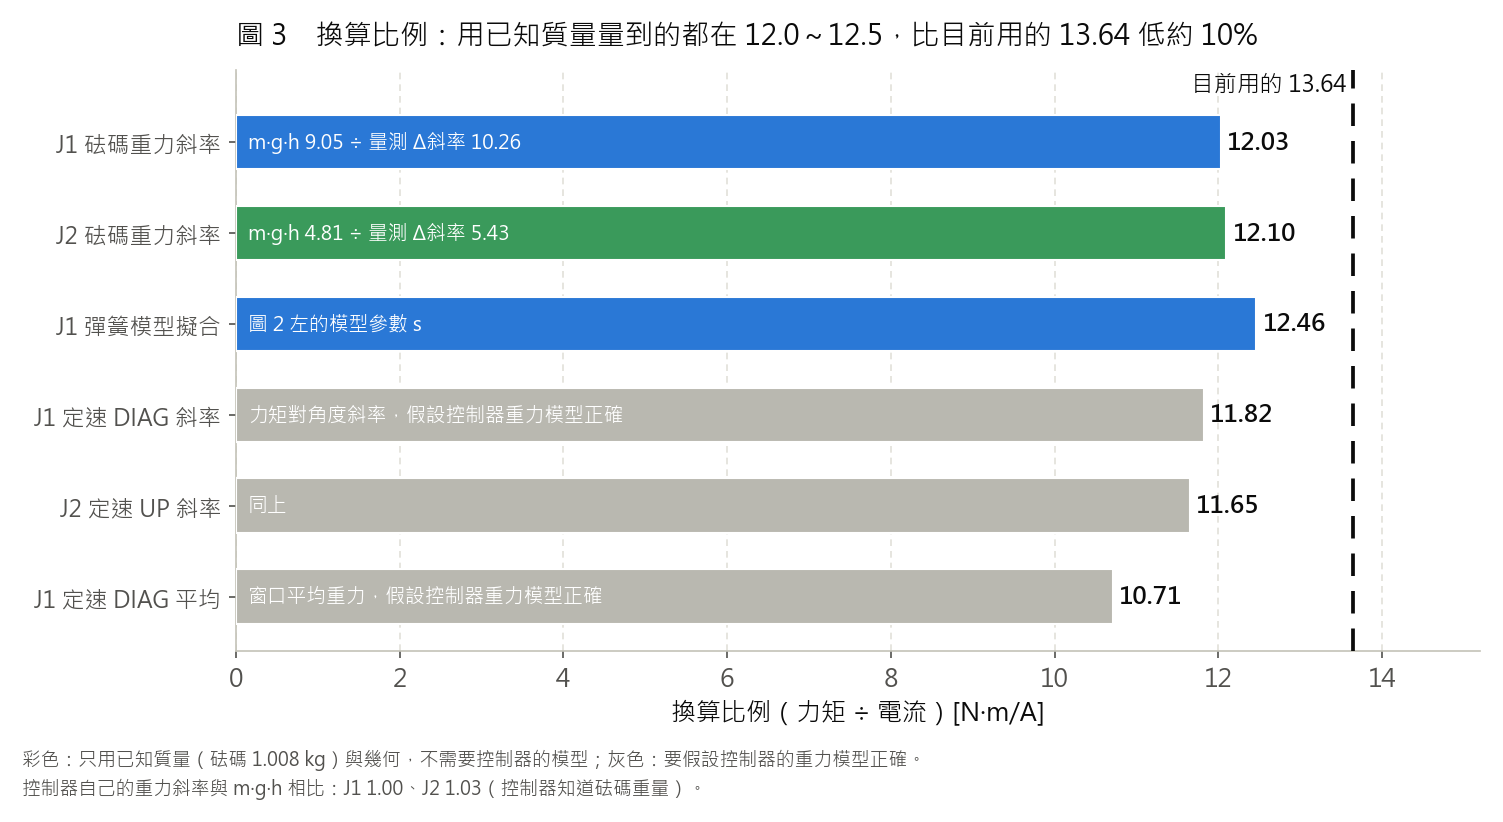
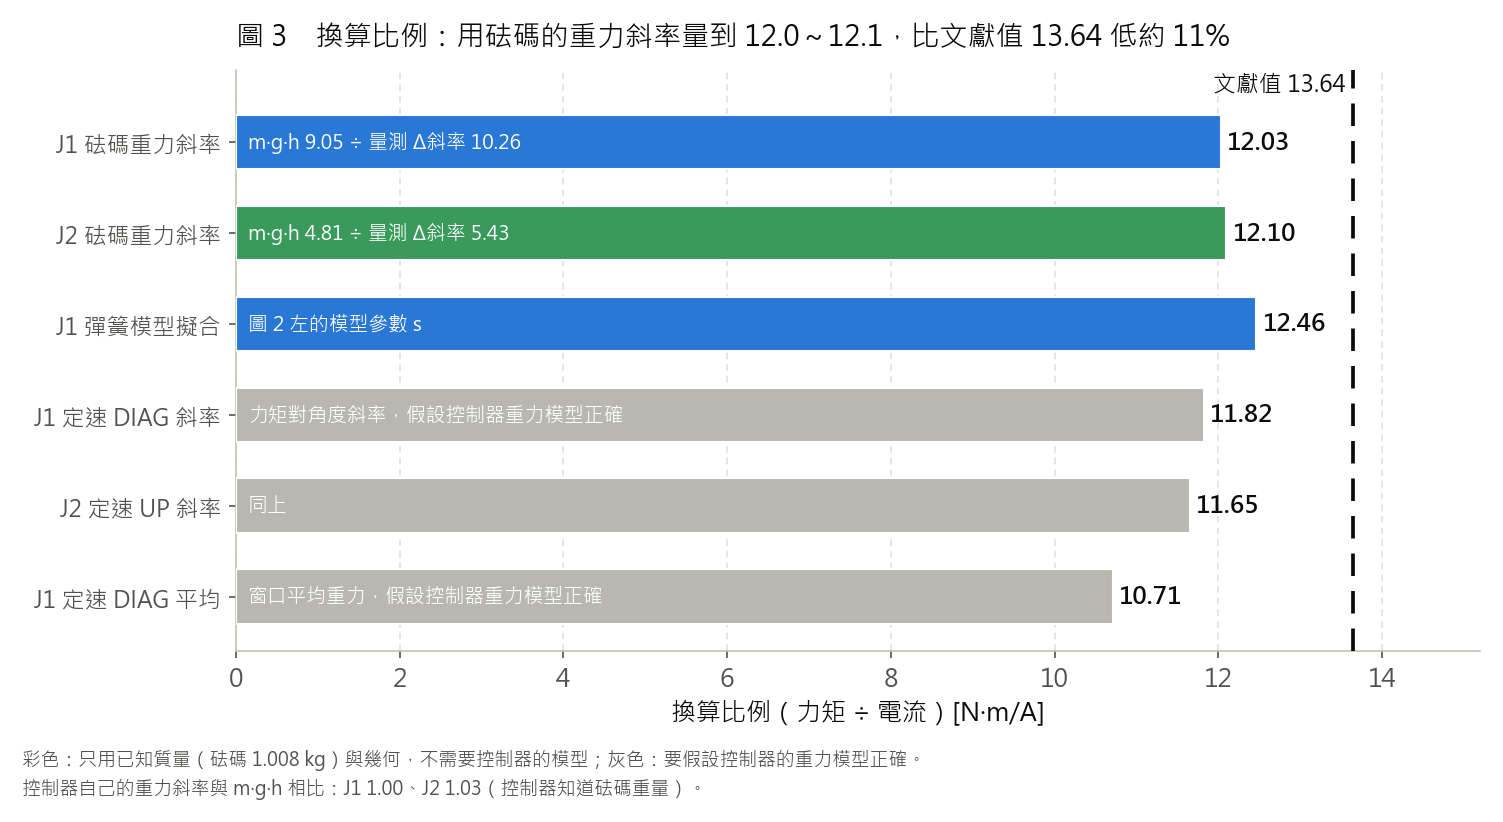
11/18 report fig 3: call 13.64 the literature value, 11% lower; mention the 10.71 window-mean estimate

Changed region(s): [[0.3061, 0.0304, 0.857, 0.0608], [0.153, 0.0304, 0.2754, 0.0608], [0.7957, 0.0912, 0.8876, 0.1217]]

diff --git a/analysis/1112/report_figs_1118.py b/analysis/1112/report_figs_1118.py
@@ -1,7 +1,7 @@
 """11/18 報告的圖（11/12 上機，手臂朝上 UP）。
 圖 1：J1 速度調變，J 對頻率：11/5 與 11/12 重複（1.30 kg），加砝碼（2.31 kg）。
 圖 2：砝碼造成的 ΔJ 對頻率：J1（加單一彈簧模型）、J2，和控制器 ΔJ_model 比。
-圖 3：換算比例（N·m/A）的各種估計，和目前用的 13.64 比。
+圖 3：換算比例（N·m/A）的各種估計，和文獻值 13.64（減速比 101 × 轉矩常數 0.135）比。
 圖 4：敲擊測試的餘振頻譜（11/12 已畫好的 w1112_tap_spectrum.png，複製改名）。
 圖 5：J2 定速（B、Tc）與 J2 速度調變各條件的 J。
 只讀 11/12 分析已存的結果（analysis_1112/*.json，由同資料夾的 j1_1112*.py、j2_*.py、tap_*.py 產生），不連網路。
@@ -24,7 +24,7 @@ FIGS = os.path.join(OUT, "figs"); os.makedirs(FIGS, exist_ok=True)
 DOCS = os.path.join(HERE, "..", "..", "docs", "report_1118"); os.makedirs(DOCS, exist_ok=True)
 INK, INK2, MUTED, GRAY = "#0b0b0b", "#52514e", "#8d8b83", "#b9b8b0"
 ORANGE, BLUE, GREEN = "#d9822b", "#2a78d6", "#3a9a5b"
-KT = 13.64                                             # 目前用的換算比例（J0～J2 沿用）
+KT = 13.64                                             # 文獻值換算比例 101 × 0.135（J0 已用砝碼校正為 10.8；J1、J2 暫時沿用）
 M_CUP, G = 1.008, 9.81
 
 J1 = json.load(open(os.path.join(OUT, "j1_1112.json"), encoding="utf-8"))
@@ -169,14 +169,14 @@ for yi, (lab, v, col, note) in zip(y, est):
     ax.text(v + 0.08, yi, f"{v:.2f}", va="center", ha="left", fontsize=11.5, color=INK, fontweight="bold")
     ax.text(0.15, yi, note, va="center", ha="left", fontsize=9.5, color="white", zorder=4)
 ax.axvline(KT, color=INK, lw=1.8, ls=(0, (6, 4)), zorder=5)
-ax.text(KT - 0.08, y[0] + 0.5, f"目前用的 {KT}", ha="right", va="bottom", fontsize=11, color=INK)
+ax.text(KT - 0.08, y[0] + 0.5, f"文獻值 {KT}", ha="right", va="bottom", fontsize=11, color=INK)
 ax.set_yticks(y); ax.set_yticklabels([e[0] for e in est], fontsize=11)
 ax.set_xlim(0, 15.2); ax.set_ylim(-0.6, len(est) - 0.2)
 ax.set_xlabel("換算比例（力矩 ÷ 電流）[N·m/A]")
 for s in ("top", "right"):
     ax.spines[s].set_visible(False)
 ax.grid(axis="x", alpha=1, ls=(0, (4, 3))); ax.set_axisbelow(True)
-ax.set_title("圖 3　換算比例：用已知質量量到的都在 12.0～12.5，比目前用的 13.64 低約 10%", loc="left",
+ax.set_title("圖 3　換算比例：用砝碼的重力斜率量到 12.0～12.1，比文獻值 13.64 低約 11%", loc="left",
              fontsize=13.5, pad=12, color=INK)
 fig.text(0.01, 0.005, "彩色：只用已知質量（砝碼 1.008 kg）與幾何，不需要控制器的模型；灰色：要假設控制器的重力模型正確。"
          "\n控制器自己的重力斜率與 m·g·h 相比：J1 1.00、J2 1.03（控制器知道砝碼重量）。", ha="left", va="bottom",

diff --git a/docs/REPORT_1118.md b/docs/REPORT_1118.md
@@ -6,7 +6,7 @@
 
 1. **J1 的慣量隨頻率上升，兩週都看得到**。同樣 1.30 kg：1 Hz、2 Hz 與 11/5 相差約 +0.4，3 Hz 相差 +1.1（圖 1）。
 2. **同一個 1 kg 砝碼，頻率越高量到的 ΔJ 越大**。J1 在 1 Hz 量到 0.64～0.92（控制器 0.86），3 Hz 量到 2.1～2.3（圖 2）。某處有彈性的單一彈簧模型（固有頻率約 5.6 Hz）大致能解釋。J2 也一樣，而且 1 Hz 就已經是控制器的 1.7 倍。
-3. **換算比例很可能比 13.64 低約 10%**。用已知質量的重力斜率量到 J1 12.03、J2 12.10（圖 3）。
+3. **換算比例很可能比文獻值 13.64 低約 11%**。用已知質量的重力斜率量到 J1 12.03、J2 12.10（圖 3）。
 4. **敲擊測試**：餘振主要在 4.3 Hz，加 1 kg 只降不到 3%；10.7 Hz 的振動降了 9%（圖 4）。和第 2 點的彈簧模型還對不起來，11/19 在 DIAG 再敲一次。
 5. **J2 第一次上機**：
    - 定速 B 30.7 ± 0.3 N·m·s/rad、Tc 8.24 ± 0.04 N·m，正反轉的 B 一致。
@@ -73,7 +73,7 @@
   - J1：m·g·h = 9.05 N·m/rad，量到 10.26（12 個條件的標準差 0.28）→ **12.03**。
   - J2：m·g·h = 4.81，量到 5.43（標準差 0.24）→ **12.10 ± 0.15**。
   - 控制器自己的重力斜率與 m·g·h 一致：J1 比值 1.00、J2 比值 1.03（控制器知道砝碼的重量）。
-- **其他方法**：圖 2 的彈簧模型擬合得到 12.46。定速時力矩對角度的斜率（要假設控制器的重力模型正確）得到 11.65～11.82。
+- **其他方法**：圖 2 的彈簧模型擬合得到 12.46。定速時力矩對角度的斜率（要假設控制器的重力模型正確）得到 11.65～11.82；定速窗口內的平均重力得到 10.71（比的是力矩絕對大小，摩擦不對稱等偏移會混進去，最不可靠）。
 - **如果真的是 12.1**：所有用 13.64 算的 J、B、Tc 都要乘 0.887。
   - 例如 J1 1 Hz 的 6.58 會變成 5.84，比控制器的 6.44 低。
   - 13.64 是文獻值（減速比 101 × 馬達轉矩常數 0.135）；J0 在 11/4 用已知質量校正得到 10.8，要不要重做，等 J1 低頻結果出來再決定。
